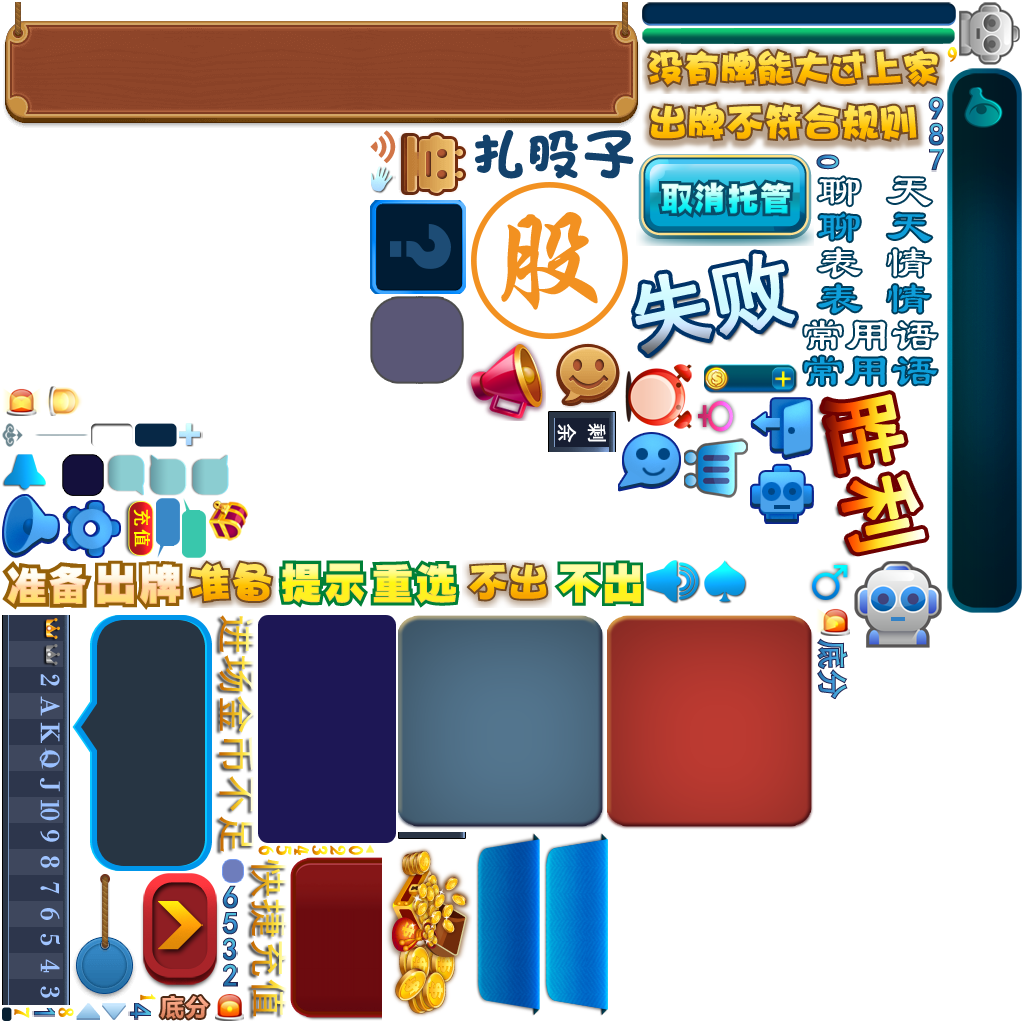
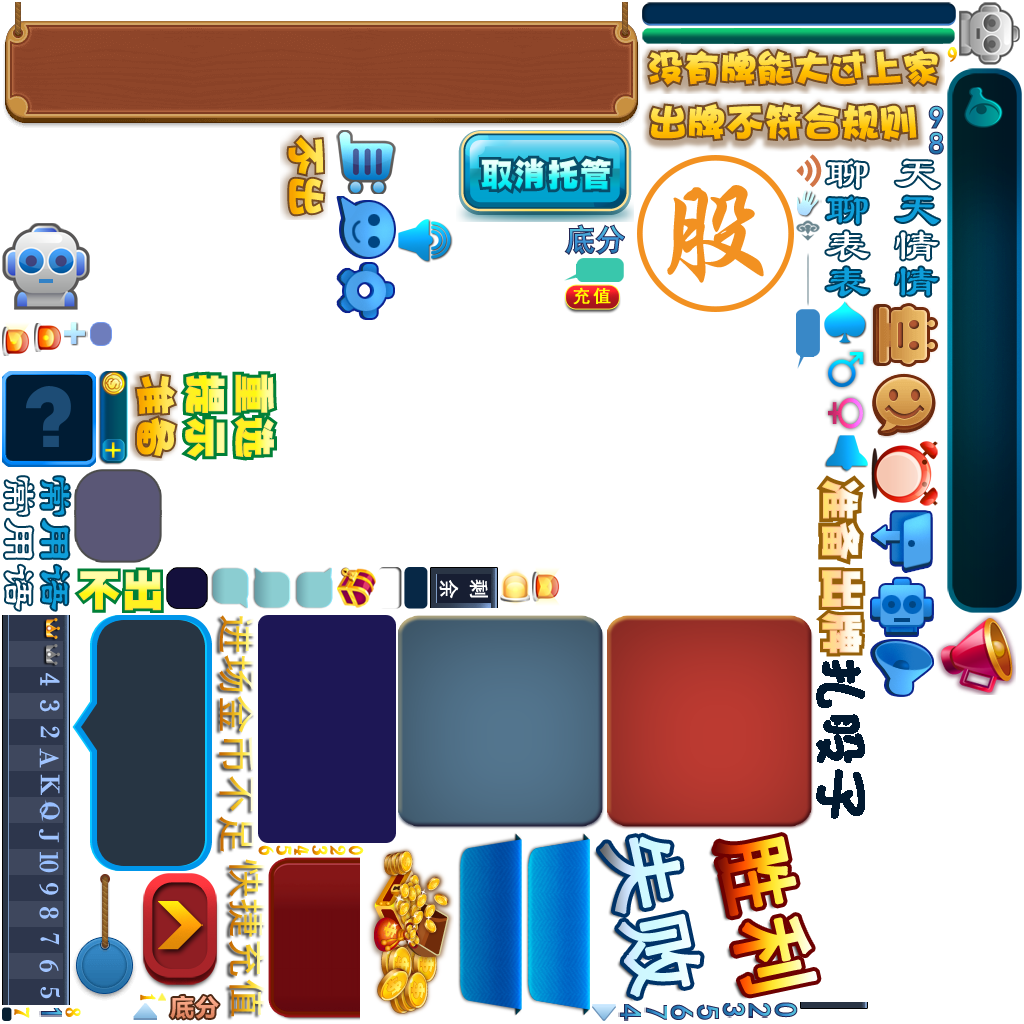
记牌器!

diff --git a/src/views/scene/gameScene.js b/src/views/scene/gameScene.js
@@ -236,6 +236,10 @@ var GameLayer = cc.Layer.extend({
 
         });
 
+        EventBus.subscribe(gameEvents.UPDATE_REMAINING_CARD, function (data) {
+            selfPointer.updateRemainingCards(data);
+        });
+
         //
         //add a keyboard event listener to statusLabel
         this.keyboardListener = cc.eventManager.addListener({
@@ -266,6 +270,12 @@ var GameLayer = cc.Layer.extend({
         this.updateActorHD();
         //game menu
         this.addMenu();
+
+
+        //添加记牌器
+        if (gRemainingCards) {
+            this.addRemainingCards();
+        }
 
 
 //更新纸牌
@@ -912,6 +922,51 @@ var GameLayer = cc.Layer.extend({
             this.m_pTableLayer.removeAllActorReady();
         }
         //console.log("gameStartEvent end");
+
+        if (gRemainingCards) {
+            this.addRemainingCards();
+        }
+    },
+
+    addRemainingCards: function () {
+        if (!gRemainingCards || gRemainingCards.length == 0);
+
+        var winSize = cc.director.getWinSize();
+        var remainingCardsSprite = new cc.Sprite('#game_jipaiqi_01.png');
+        remainingCardsSprite.setAnchorPoint(0, 0);
+        remainingCardsSprite.setPosition(winSize.width / 2 - 80, -20);
+        this.addChild(remainingCardsSprite, 24);
+
+        var perWidth = remainingCardsSprite.getContentSize().width / 15;
+        var y = 20;
+        var labelXList = _.map([19, 18, 17, 16, 15, 14, 13, 12, 11, 10, 9, 8, 7, 6, 5], function (modValue, index) {
+            return {modValue: modValue, x: index * perWidth + perWidth / 2};
+        });
+
+        this.remainingCardsLabelList = [];
+
+        var self = this;
+
+        gRemainingCards.forEach(function (remainingCard) {
+            var x = _.findWhere(labelXList, {modValue: remainingCard.modValue}).x;
+            var label = new cc.LabelTTF(remainingCard.count, 'Arial', 14);
+            label.setAnchorPoint(0.5, 0);
+            label.x = x;
+            label.y = y;
+            label.setTag(remainingCard.modValue);
+            remainingCardsSprite.addChild(label);
+            self.remainingCardsLabelList.push({modValue: remainingCard.modValue, label: label});
+        })
+
+    },
+
+    updateRemainingCards: function (data) {
+        var self = this;
+        gRemainingCards.forEach(function (remainingCard) {
+            var label = _.findWhere(self.remainingCardsLabelList, {modValue: remainingCard.modValue}).label;
+            label.setString(remainingCard.count);
+        });
+
     },
 
     talkCountdownEvent: function (data) {

diff --git a/src/events/gameMessageEvent.js b/src/events/gameMessageEvent.js
@@ -25,6 +25,8 @@ pomelo.on(gameEvents.START, function (data) {
     gActor.actorNr = data.actor.actorNr;
     gActor.uid = data.actor.uid;
     gActor.cards = data.actor.gameStatus.currentHoldingCards;
+    gRemainingCards = data.actor.remainingCards;
+
     EventBus.publish(gameEvents.START, data);
 });
 
@@ -90,6 +92,10 @@ pomelo.on(gameEvents.FAN, function (data) {
     if (data.cardRecognization) {
         gLastFanCardRecognization = data.cardRecognization;
     }
+    if (data.cards.length > 0 && data.uid !== gPlayer.uid) {
+        cardUtil.updateRemainingCards(data.cards);
+        EventBus.publish(gameEvents.UPDATE_REMAINING_CARD, data);
+    }
     EventBus.publish(gameEvents.FAN, data);
     //actor: {uid: xx, actorNr: xx},
     //cardRecognization: utils.cards.CardRecognization (当前出牌牌型）, cards: 出牌，数组[]，为空时为不出
@@ -152,7 +158,12 @@ pomelo.on(gameEvents.FAN_FINISHED, function (data) {
 });
 
 pomelo.on(gameEvents.BACK_TO_GAME, function (data) {
-    //console.log('receive onBackToGame event.', data);
+    console.log('receive onBackToGame event.', data);
+    for (var i = 0; i < data.actors.length; i++) {
+        if (data.actors[i].uid === gPlayer.uid) {
+            gRemainingCards = data.actors[i].remainingCards
+        }
+    }
     var scene = new GameScene(data, true);
     cc.director.runScene(scene);
 });

diff --git a/src/utils/cardUtil.js b/src/utils/cardUtil.js
@@ -53,3 +53,21 @@ cardUtil.recognitionCards = function (cards, type, append) {
 cardUtil.isCurrentBiggerThanLast = function (cr1, cr2, type, append) {
     return CardLogic.isCurrentBiggerThanLast(cr1, cr2, type, append);
 }
+
+
+/**
+ * 更新剩余牌数组(更新记牌器)
+ * @param cards
+ */
+cardUtil.updateRemainingCards = function (cards) {
+    cards.forEach(function (card) {
+        if (gRemainingCards && gRemainingCards.length > 0) {
+            gRemainingCards = _.map(gRemainingCards, function (remainingCard) {
+                if (remainingCard.modValue === card % 100) {
+                    remainingCard.count -= 1;
+                }
+                return remainingCard;
+            });
+        }
+    })
+}

diff --git a/src/consts/gameEvents.js b/src/consts/gameEvents.js
@@ -32,6 +32,8 @@ var gameEvents = {
     INGOT_CHANGE: 'onIngotChange',
     RESTART_GAME: 'onRestartGame',
     DISSOLVE_GAME: 'onDissolveGame',
-    PAYMENT_RESULT: 'onPaymentResult'
+    PAYMENT_RESULT: 'onPaymentResult',
 
+    //
+    UPDATE_REMAINING_CARD: 'UPDATE_REMAINING_CARD'  //更新剩余牌(记牌器)
 }

diff --git a/src/globals.js b/src/globals.js
@@ -30,6 +30,7 @@ var gGameId = 0;
 var gGameType = 0;
 var gActor = {};
 var gLastFanCardRecognization = null;   //上手牌型
+var gRemainingCards = null; //记牌器
 
 var gGameState = 0;
 var avatars = [
